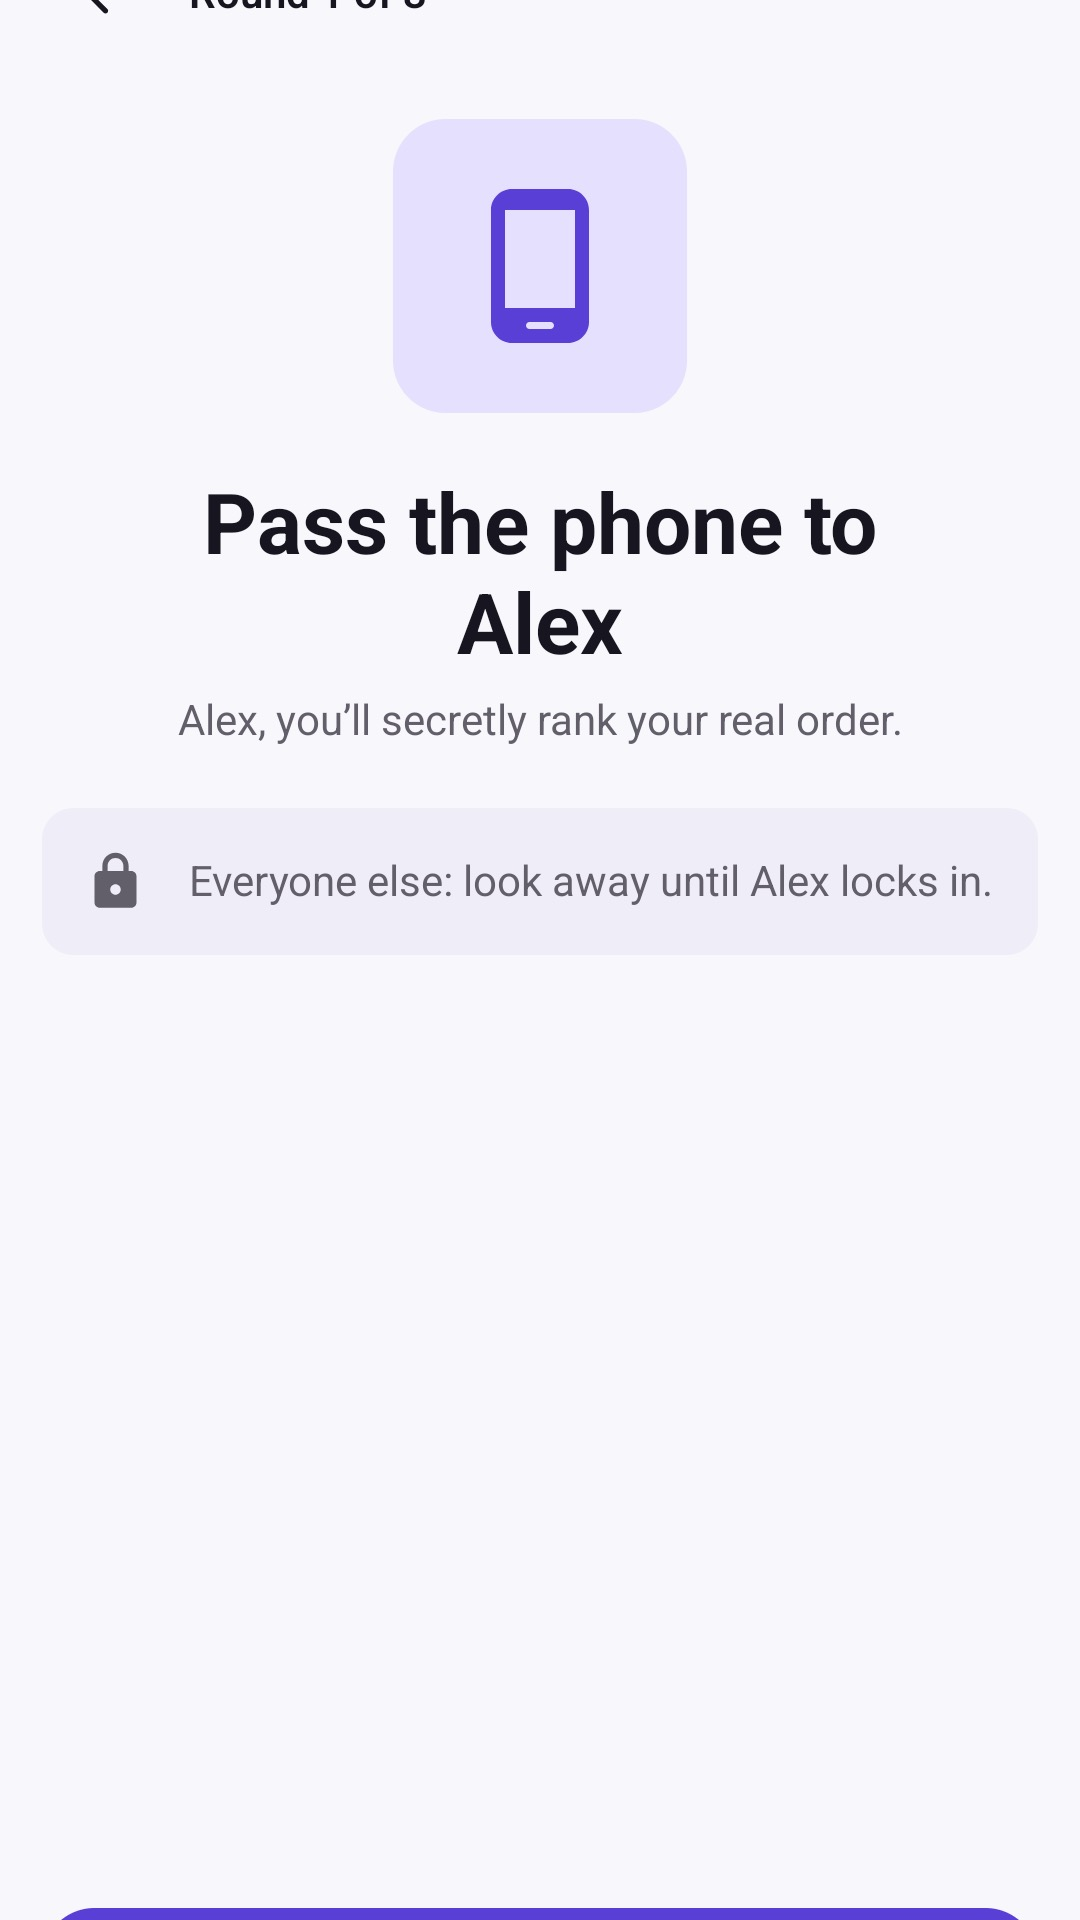
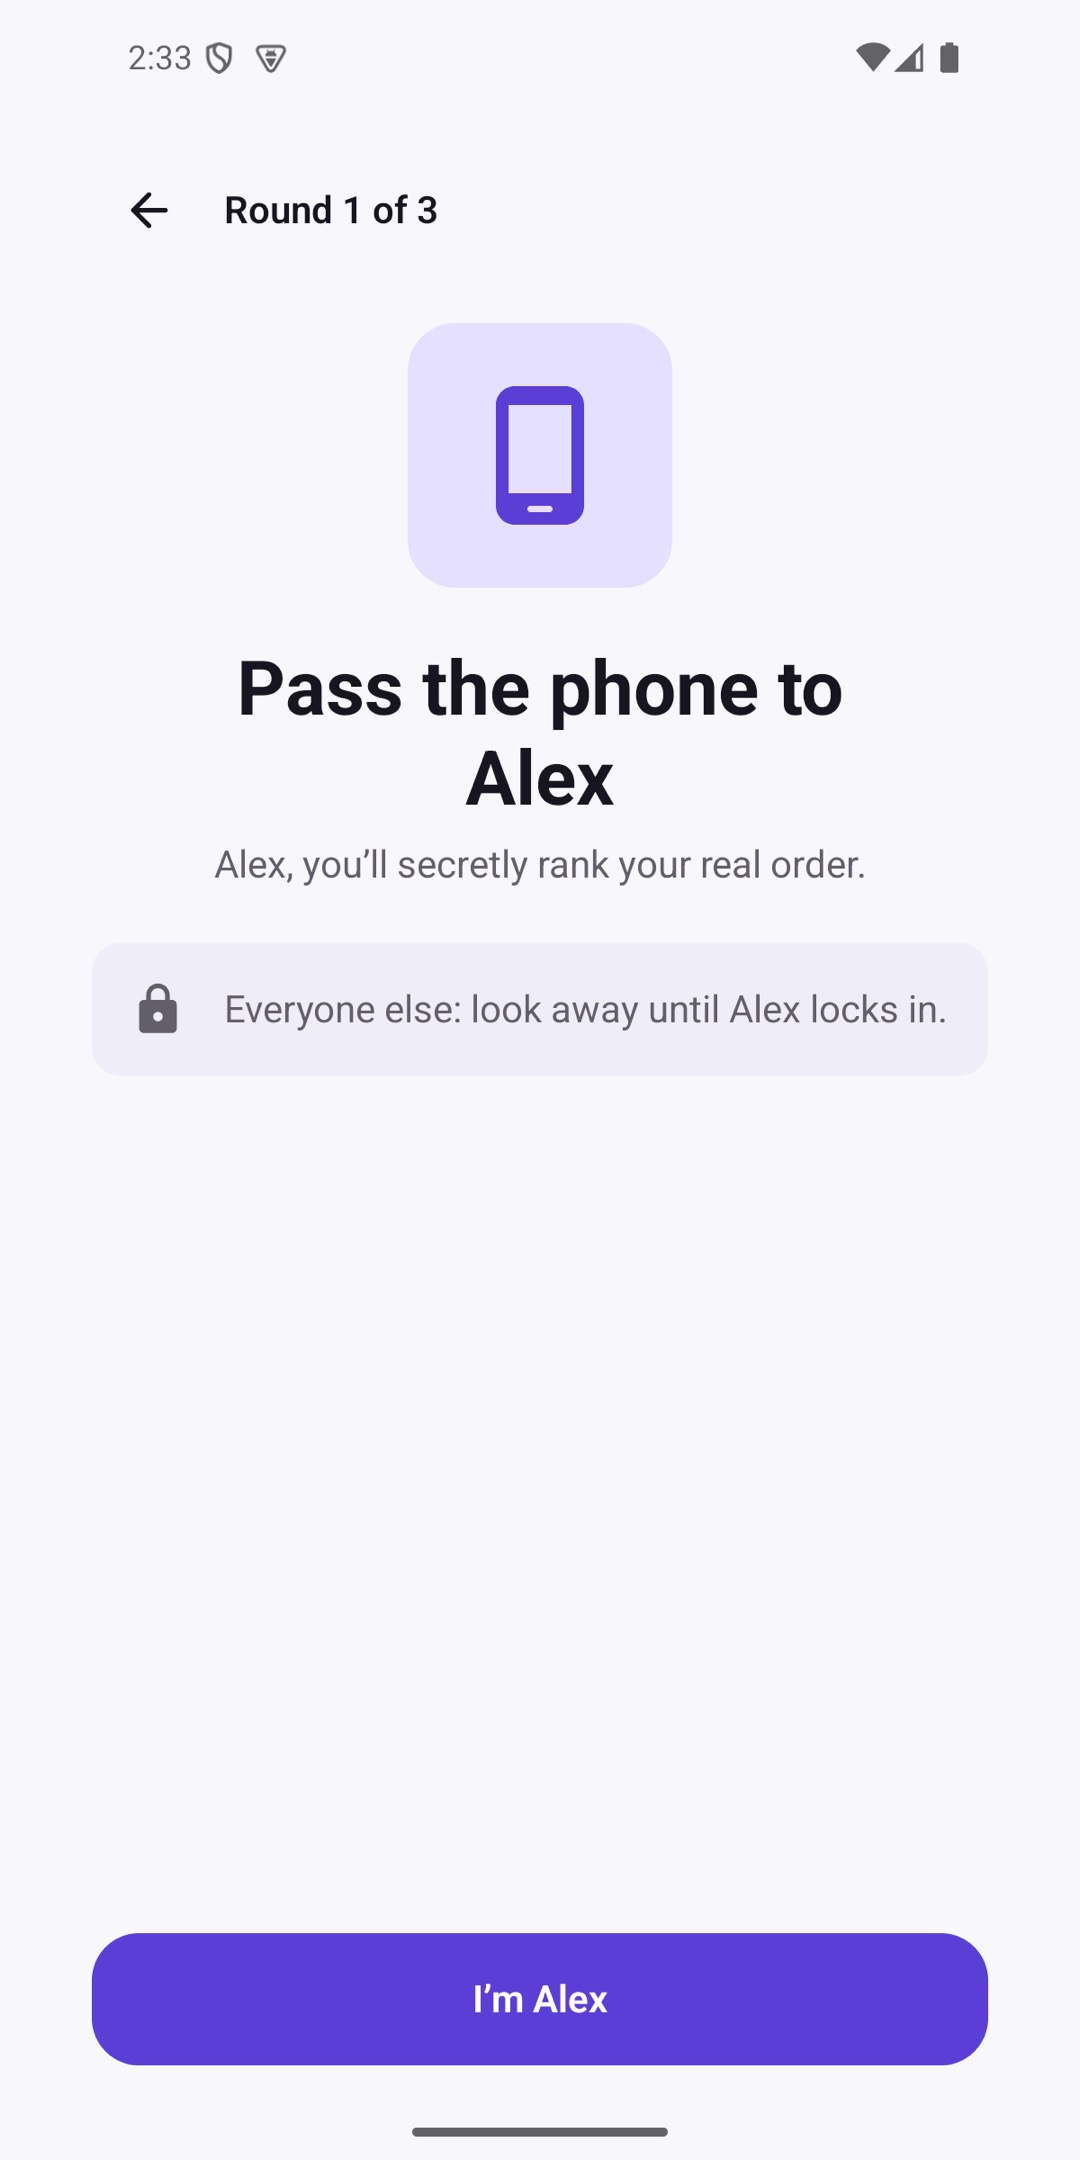
Keep full UI in Play listing screenshots.
Center crop cut titles and tab bars; scale-to-fit at 1080×2160 stays within Play's 2:1 limit.

diff --git a/android/scripts/play_listing_assets.py b/android/scripts/play_listing_assets.py
@@ -1,7 +1,8 @@
 #!/usr/bin/env python3
 """Generate Play Store listing bitmaps.
 
-Source screenshots (docs/screenshots/), cropped to 1080×1920 JPEG:
+Source screenshots (docs/screenshots/), scaled to fit 1080×2160 JPEG
+(Play’s 2:1 max; side-padded with rank5_background so chrome is not cropped):
   home.png            -> docs/play/screenshots/phone-home.jpg
   pass-and-play.png   -> docs/play/screenshots/phone-pass-and-play.jpg
   decks.png           -> docs/play/screenshots/phone-decks.jpg
@@ -37,6 +38,11 @@ BAR_WIDTHS = (48.0, 39.0, 30.0, 21.0, 12.0)
 FIELD = (0x5A, 0x3F, 0xD6)
 BAR_FILL = (0xFF, 0xFF, 0xFF)
 LAST_BAR = (0xB3, 0x26, 0x4B)
+
+# Play: long side ≤ 2× short side. 1080×2160 is the tallest allowed at this width.
+SHOT_W = 1080
+SHOT_H = 2160
+PAD_COLOR = "F8F7FC"  # rank5_background
 
 SCREENSHOTS = (
     ("home.png", "phone-home.jpg"),
@@ -141,23 +147,44 @@ def write_feature_graphic() -> None:
     write_png(PLAY / "feature-graphic-1024x500.png", 1024, 500, pixels, color_type=2)
 
 
-def crop_screenshots() -> None:
+def export_screenshots() -> None:
     dest_dir = PLAY / "screenshots"
     dest_dir.mkdir(parents=True, exist_ok=True)
     for src_name, dest_name in SCREENSHOTS:
         src = SCREENSHOTS_SRC / src_name
         dest = dest_dir / dest_name
-        cropped = dest.with_suffix(".png")
-        subprocess.check_call(["sips", "-c", "1920", "1080", str(src), "--out", str(cropped)])
-        subprocess.check_call(["sips", "-s", "format", "jpeg", str(cropped), "--out", str(dest)])
-        cropped.unlink()
+        scaled = dest.with_suffix(".scaled.png")
+        padded = dest.with_suffix(".png")
+        try:
+            # 1080×2400 → 972×2160, then pad sides to 1080×2160.
+            subprocess.check_call(
+                ["sips", "--resampleHeight", str(SHOT_H), str(src), "--out", str(scaled)]
+            )
+            # -p must precede --padColor; otherwise sips ignores the pad size.
+            subprocess.check_call(
+                [
+                    "sips",
+                    "-p",
+                    str(SHOT_H),
+                    str(SHOT_W),
+                    "--padColor",
+                    PAD_COLOR,
+                    str(scaled),
+                    "--out",
+                    str(padded),
+                ]
+            )
+            subprocess.check_call(["sips", "-s", "format", "jpeg", str(padded), "--out", str(dest)])
+        finally:
+            scaled.unlink(missing_ok=True)
+            padded.unlink(missing_ok=True)
 
 
 def main() -> None:
     PLAY.mkdir(parents=True, exist_ok=True)
     write_icon()
     write_feature_graphic()
-    crop_screenshots()
+    export_screenshots()
 
 
 if __name__ == "__main__":

diff --git a/android/scripts/test_play_listing_assets.py b/android/scripts/test_play_listing_assets.py
@@ -44,7 +44,7 @@ def main():
     assert len(shots) >= 2, shots
     for p in shots:
         w, h = jpeg_size(p)
-        assert (w, h) == (1080, 1920), (p, w, h)
+        assert (w, h) == (1080, 2160), (p, w, h)
         assert max(w, h) <= 2 * min(w, h)
     print(f"ok icon+feature+{len(shots)} screenshots")
 
